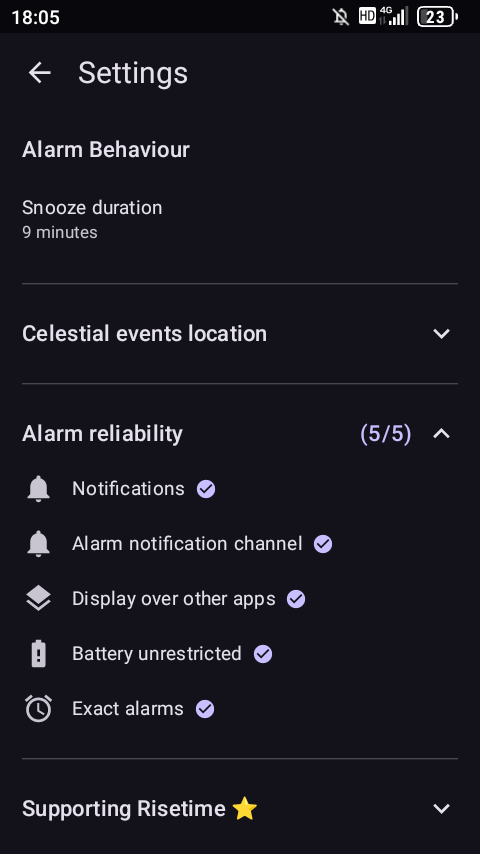
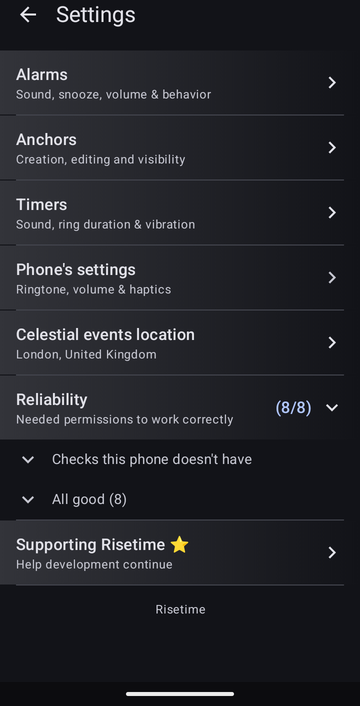
La capture des Réglages montre enfin l'écran entier, et l'accueil a quatre images de même taille
Dernière pièce du blocage. La ligne de version affichait « dev-debug » et le
garde-fou anti-debug refusait la capture — à juste titre, un site d'app publiée
n'a pas à montrer un paquet de développement.

Le porteur a écarté mes deux contournements — capturer depuis une release,
cadrer au-dessus de la ligne — et proposé le sien : en debug seulement, la
ligne affiche « Risetime » et l'appui révèle la version. La release ne change
pas, donc aucun utilisateur ne perd rien, et le support garde sa réponse au
premier coup d'œil.

⚠ Mes deux contournements étaient d'ailleurs impossibles, et la mesure me l'a
appris après coup. Le build release échoue faute de clé de signature, et même
avec une clé le récepteur de banc est debug-only par conception — donc pas de
scène à semer. Quant à cadrer au-dessus : l'écran Réglages est un accordéon
dont le contenu ne dépasse jamais l'écran, il ne défile pas, « plus haut »
n'existe pas.

Le changement d'app est livré par la session qui travaillait déjà dans ce
fichier — une seule main sur SettingsScreen.kt — sous la story ux-177. Le
garde-fou n'a rien refusé : il n'avait plus rien à refuser. Satisfait, pas
contourné.

L'image est meilleure, pas seulement conforme : elle montre l'écran entier, la
section Reliability dépliée à (8/8), et tient donc enfin la promesse de sa
légende — ce que l'ancienne image ne faisait plus depuis les stories UX-159 à
UX-167.

L'accueil porte désormais ses quatre captures dans la même géométrie. Le
[…]

diff --git a/app/(en)/page.tsx b/app/(en)/page.tsx
@@ -234,10 +234,10 @@ export default function HomePage() {
               </figure>
               <figure>
                 <picture>
-                  <source srcSet="/assets/screenshots/settings-screen--dark.webp" media="(prefers-color-scheme: dark)" type="image/webp" />
-                  <source srcSet="/assets/screenshots/settings-screen.webp" type="image/webp" />
+                  <source srcSet="/assets/screenshots/settings-screen--dark.webp 1x, /assets/screenshots/settings-screen--dark@2x.webp 2x" media="(prefers-color-scheme: dark)" type="image/webp" />
+                  <source srcSet="/assets/screenshots/settings-screen.webp 1x, /assets/screenshots/settings-screen@2x.webp 2x" type="image/webp" />
                   <source srcSet="/assets/screenshots/settings-screen--dark.png" media="(prefers-color-scheme: dark)" />
-                  <img src="/assets/screenshots/settings-screen.png" alt="Risetime settings screen showing Alarm Behaviour, Celestial events location, and Alarm reliability section with five green checkmarks for all permissions. A Supporting Risetime section is visible at the bottom." width="480" height="854" loading="lazy" />
+                  <img src="/assets/screenshots/settings-screen.png" alt="Risetime settings screen with rows for Alarms, Anchors, Timers, Phone's settings, and Celestial events location set to London, United Kingdom. The Reliability row reads 8 of 8 checks passing and is open on Checks this phone doesn't have and All good (8). Supporting Risetime sits below, and the footer reads Risetime." width="360" height="706" loading="lazy" />
                 </picture>
                 <figcaption>Reliability you can check</figcaption>
               </figure>
